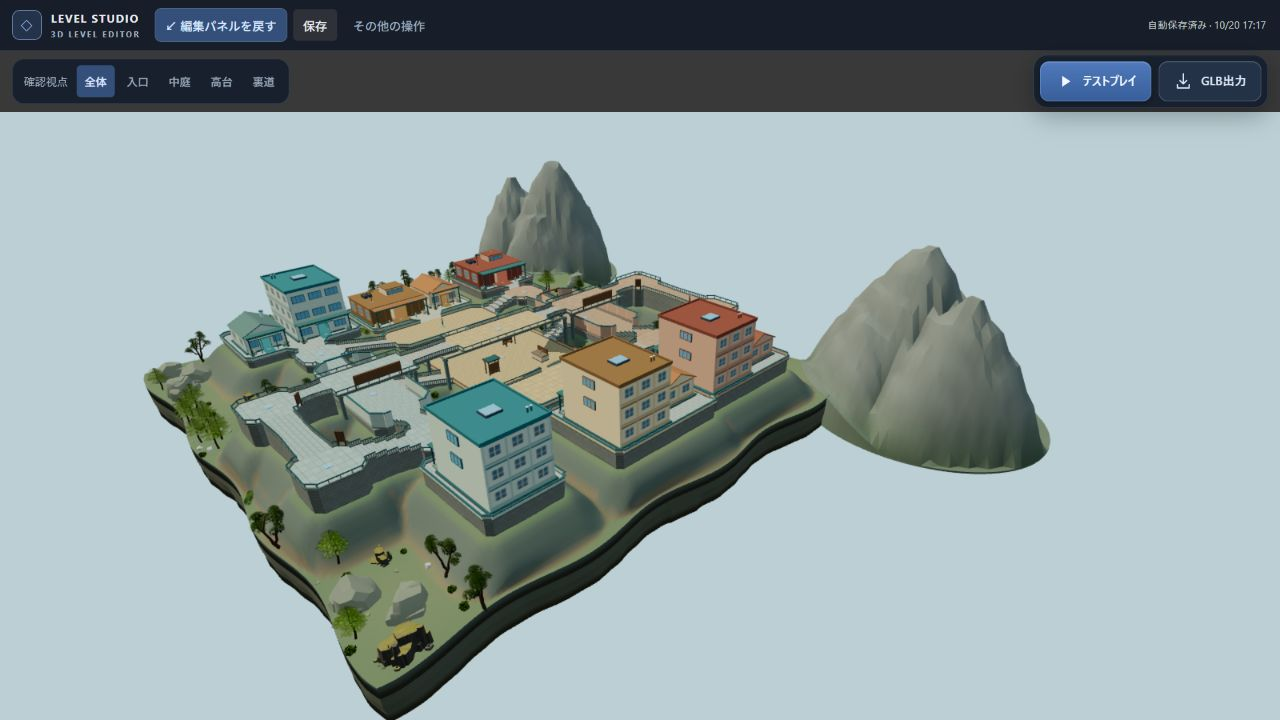
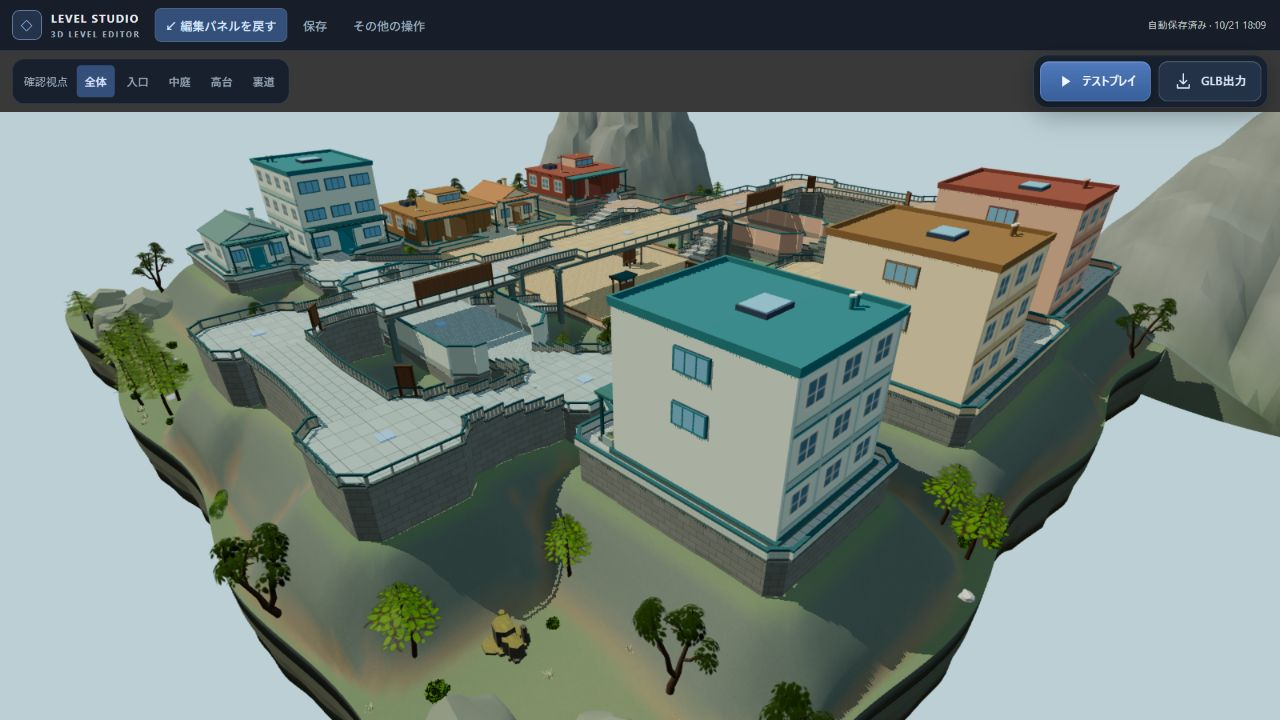
Focus town shadows and remove facade shadow acne

diff --git a/src/components/StageLighting.jsx b/src/components/StageLighting.jsx
@@ -2,9 +2,14 @@ import React, { useMemo } from 'react';
 import { Object3D } from 'three';
 import EnvironmentLighting from './EnvironmentLighting';
 import { natureLightingBounds } from '../core/natureAppearance.js';
+import { stageShadowBounds } from '../core/stageShadowBounds.js';
 
 export default function StageLighting({ objects, natural, spatial = false, landscape = false, quality }) {
   const settings = useMemo(() => natural || spatial ? natureLightingBounds(objects) : null, [objects, natural, spatial]);
+  const sun = settings ? [settings.centre[0] - settings.span * 0.45, settings.centre[1] + settings.span * 0.7, settings.centre[2] + settings.span * 0.35] : null;
+  const shadows = useMemo(() => landscape && settings ? stageShadowBounds(objects,
+    [settings.centre[0] - settings.span * 0.45, settings.centre[1] + settings.span * 0.7, settings.centre[2] + settings.span * 0.35],
+    settings.centre, quality.shadowSize) : null, [landscape, settings, objects, quality.shadowSize]);
   const target = useMemo(() => {
     const object = new Object3D();
     if (settings) object.position.set(...settings.centre);
@@ -23,9 +28,9 @@ export default function StageLighting({ objects, natural, spatial = false, lands
     {landscape && <directionalLight color="#b9d8ea" intensity={0.45} target={target}
       position={[centre[0] + span * 0.5, centre[1] + span * 0.3, centre[2] - span * 0.4]} />}
     <directionalLight key={quality.shadowSize} castShadow={quality.shadows} color="#fff1d8" intensity={landscape ? 2.8 : 2.2} target={target}
-      position={[centre[0] - span * 0.45, centre[1] + span * 0.7, centre[2] + span * 0.35]}
-      shadow-mapSize={[quality.shadowSize, quality.shadowSize]} shadow-bias={-0.00015} shadow-normalBias={spatial ? 0.12 : 0.04}
-      shadow-camera-left={-radius} shadow-camera-right={radius} shadow-camera-top={radius} shadow-camera-bottom={-radius}
-      shadow-camera-near={0.5} shadow-camera-far={span * 3} />
+      position={sun}
+      shadow-mapSize={[quality.shadowSize, quality.shadowSize]} shadow-bias={shadows?.bias ?? -0.00015} shadow-normalBias={shadows?.normalBias ?? (spatial ? 0.12 : 0.04)}
+      shadow-camera-left={shadows?.left ?? -radius} shadow-camera-right={shadows?.right ?? radius} shadow-camera-top={shadows?.top ?? radius} shadow-camera-bottom={shadows?.bottom ?? -radius}
+      shadow-camera-near={shadows?.near ?? 0.5} shadow-camera-far={shadows?.far ?? span * 3} />
   </>;
 }

diff --git a/src/core/stageShadowBounds.js b/src/core/stageShadowBounds.js
@@ -1,0 +1,33 @@
+import { Matrix4, Vector3 } from 'three';
+import { getBounds } from './spatialGeometry.js';
+import { isSpatialLandscapeDecoration } from './stageViews.js';
+
+export function stageShadowBounds(objects, position, target, mapSize = 1024) {
+  const casters = objects.filter(o => o.id !== 'sp_void');
+  const streets = casters.filter(o => !['sp_ground', 'sp_terrain_surround'].includes(o.id) &&
+    !['backdrop', 'foundation'].includes(o.spatialAppearance?.category) && !isSpatialLandscapeDecoration(o));
+  if (!casters.length) return null;
+  const eye = new Vector3(...position), centre = new Vector3(...target);
+  const view = new Matrix4().lookAt(eye, centre, new Vector3(0, 1, 0)).setPosition(eye).invert();
+  const corners = object => {
+    const b = getBounds(object), points = [];
+    for (const x of [b.minX, b.maxX]) for (const z of [b.minZ, b.maxZ])
+      for (const y of [object.pos[1] - object.size[1] / 2, object.pos[1] + object.size[1] / 2])
+        points.push(new Vector3(x, y, z).applyMatrix4(view));
+    return points;
+  };
+  const points = (streets.length ? streets : casters).flatMap(corners);
+  // Reserve a shoulder around the town; mountains remain shadow casters whenever
+  // their light-space silhouette overlaps these receivers. Keep their full depth.
+  const margin = 8;
+  const left = Math.min(...points.map(p => p.x)) - margin, right = Math.max(...points.map(p => p.x)) + margin;
+  const bottom = Math.min(...points.map(p => p.y)) - margin, top = Math.max(...points.map(p => p.y)) + margin;
+  const depths = casters.flatMap(corners).map(p => -p.z);
+  const near = Math.max(0.5, Math.min(...depths) - margin), far = Math.max(near + 1, Math.max(...depths) + margin);
+  const texel = Math.max(right - left, top - bottom) / mapSize;
+  return { left, right, bottom, top, near, far, texel,
+    normalBias: Math.min(0.12, Math.max(0.035, texel * 0.9)),
+    // Shadow bias is normalized by the depth range. Express the offset in world
+    // metres first so distant mountains cannot amplify it or cause acne.
+    bias: -Math.min(0.16, texel * 1.1) / (far - near) };
+}
